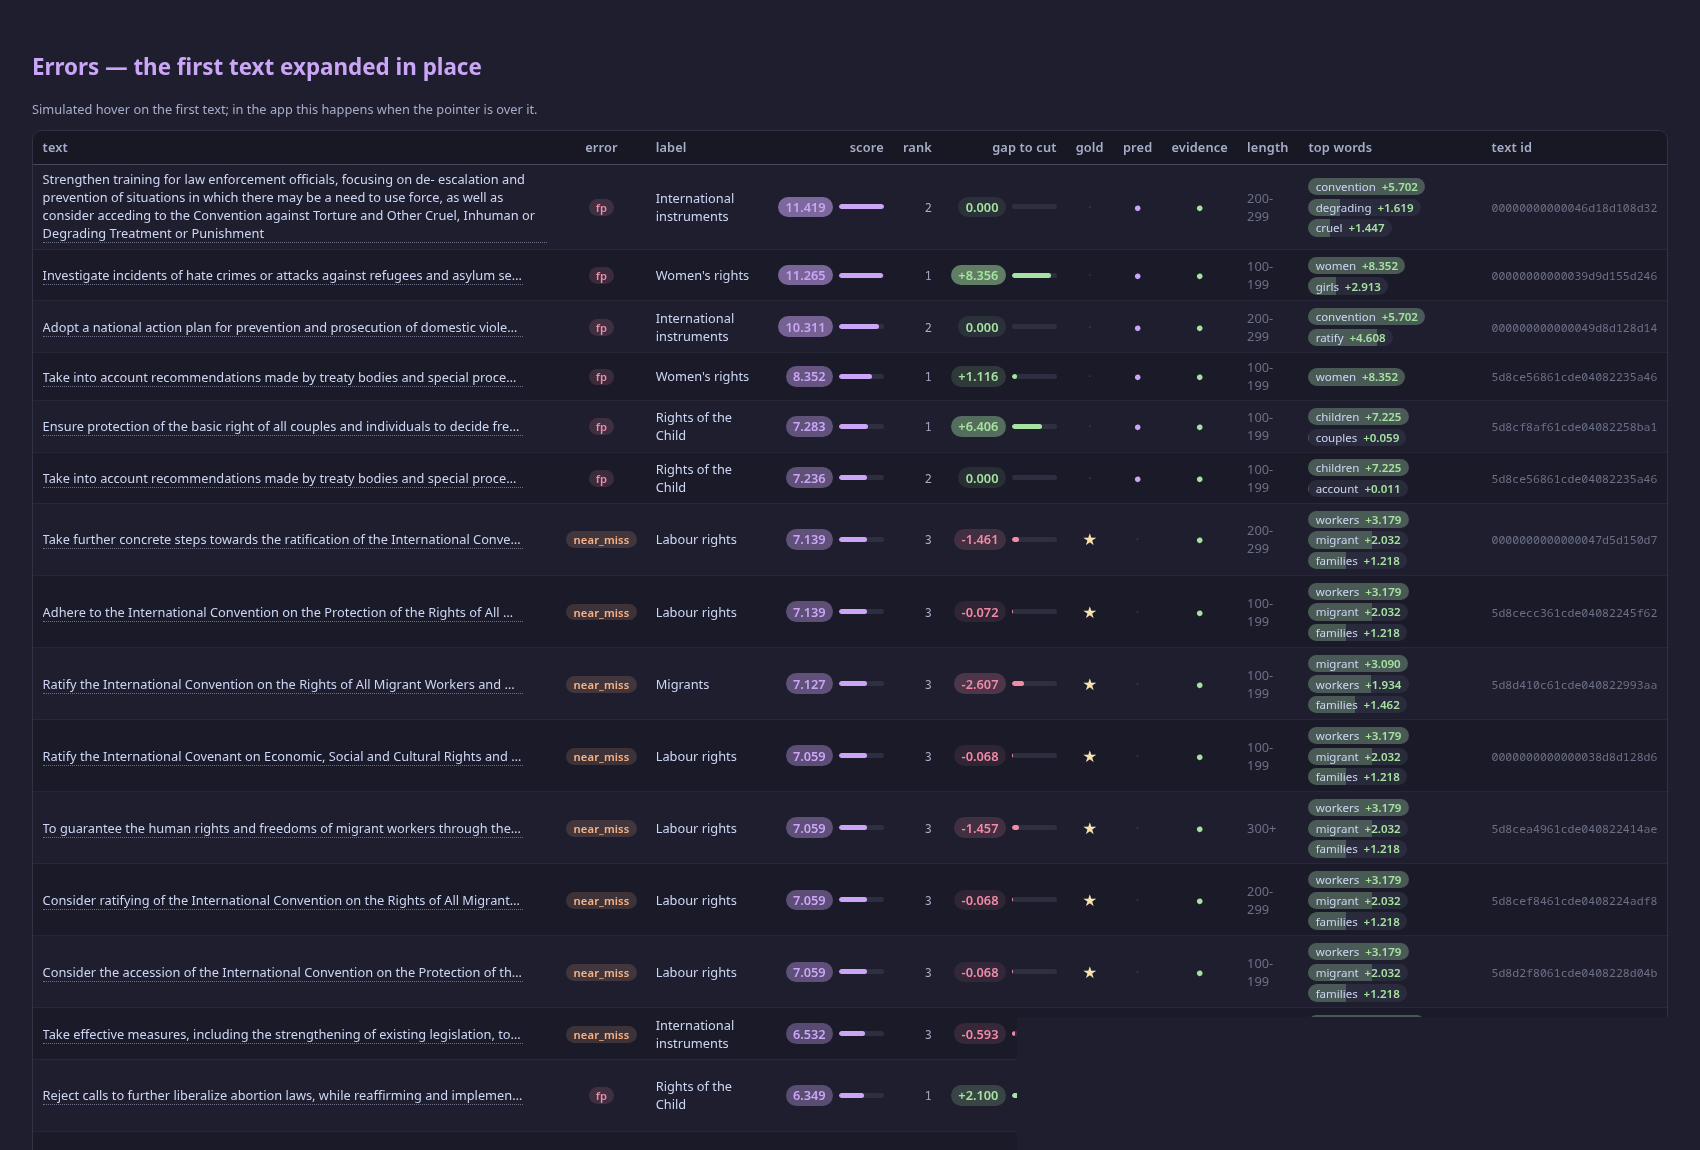
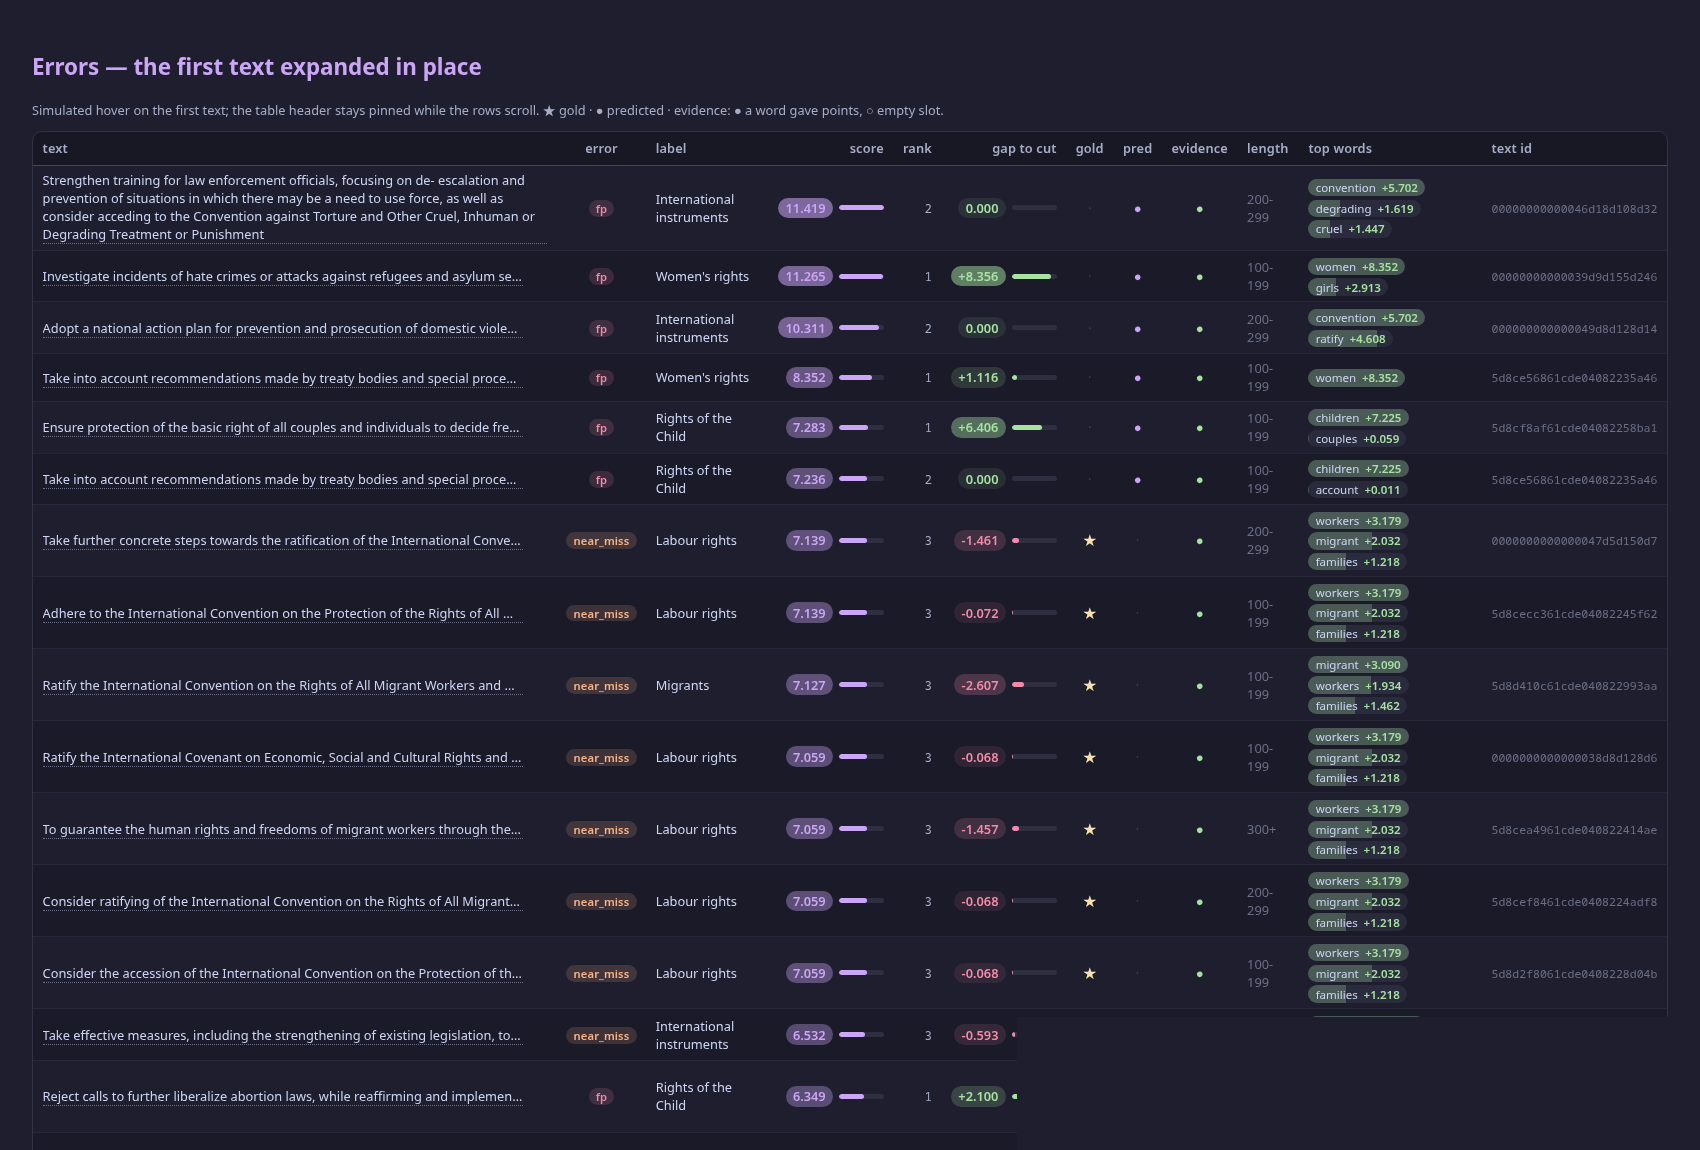
Feat: sticky headers in the error viewer's tables

diff --git a/tools/error_app.css b/tools/error_app.css
@@ -31,9 +31,12 @@ h1, h2 { color: var(--ctp-mauve); }
 a { color: var(--ctp-blue); }
 [data-testid="stDataFrame"] { font-variant-numeric: tabular-nums; }
 /* read-only diagnostic tables: no checkbox-looking cells */
-.ev-table-wrap { overflow-x: auto; border: 1px solid var(--ctp-surface0); border-radius: 0.6rem; margin: 0.35rem 0 0.8rem; }
+.ev-table-wrap { overflow: auto; max-height: 72vh; border: 1px solid var(--ctp-surface0); border-radius: 0.6rem; margin: 0.35rem 0 0.8rem; scrollbar-width: thin; scrollbar-color: var(--ctp-surface1) var(--ctp-crust); }
+.ev-table-wrap::-webkit-scrollbar { width: 8px; height: 8px; }
+.ev-table-wrap::-webkit-scrollbar-thumb { background: var(--ctp-surface1); border-radius: 999px; }
+.ev-table-wrap::-webkit-scrollbar-track { background: var(--ctp-crust); }
 .ev-table { width: 100%; border-collapse: collapse; font-size: 0.8rem; font-variant-numeric: tabular-nums; }
-.ev-table thead th { position: sticky; top: 0; z-index: 1; background: var(--ctp-mantle); color: var(--ctp-subtext0); font-weight: 600; letter-spacing: 0.01em; padding: 0.45rem 0.6rem; border-bottom: 1px solid var(--ctp-surface1); white-space: nowrap; }
+.ev-table thead th { position: sticky; top: 0; z-index: 2; background: var(--ctp-mantle); color: var(--ctp-subtext0); font-weight: 600; letter-spacing: 0.01em; padding: 0.45rem 0.6rem; border-bottom: 1px solid var(--ctp-surface1); white-space: nowrap; box-shadow: 0 1px 0 var(--ctp-surface1); }
 .ev-table tbody td { padding: 0.36rem 0.6rem; border-bottom: 1px solid rgba(49, 50, 68, 0.55); vertical-align: middle; }
 .ev-table tbody tr:nth-child(even) { background: rgba(24, 24, 37, 0.55); }
 .ev-table tbody tr:hover { background: rgba(49, 50, 68, 0.55); }

diff --git a/tests/test_error_app.py b/tests/test_error_app.py
@@ -96,6 +96,8 @@ def test_the_errors_view_lists_a_mistake(fixture: Any, monkeypatch: pytest.Monke
     assert "title=" not in shown  # no tooltip attribute
     assert "ev-pill" in shown  # the contributing words
     assert "ev-dot" in shown  # the booleans
+    captions = " ".join(str(element.value) for element in app.caption)
+    assert "scroll inside the table" in captions
 
 
 def test_the_one_text_view_shows_the_matrix(fixture: Any, monkeypatch: pytest.MonkeyPatch) -> None:
@@ -247,3 +249,7 @@ def test_the_stylesheet_carries_the_table_look() -> None:
     assert ".ev-dot" in css
     assert ".ev-text:hover" in css
     assert "white-space: normal" in css
+    # the table scrolls inside its own frame, so the header can stay pinned
+    assert "max-height: 72vh" in css
+    assert "position: sticky" in css
+    assert "z-index: 2" in css

diff --git a/tools/error_app.py b/tools/error_app.py
@@ -452,8 +452,8 @@ def errors_view(
         unsafe_allow_html=True,
     )
     st.caption(
-        "Hover a text to expand it in place. ★ gold · ● predicted · "
-        "evidence: ● a word gave points, ○ empty slot."
+        "Hover a text to expand it in place; scroll inside the table to keep the header pinned. "
+        "★ gold · ● predicted · evidence: ● a word gave points, ○ empty slot."
     )
     if not frame.empty:
         choices = list(dict.fromkeys(frame["text_id"]))

diff --git a/docs/error_viewer.md b/docs/error_viewer.md
@@ -280,8 +280,9 @@ pipeline. If a real discrepancy appears, it is reported, not fixed.
 The Errors view, rendered from the app's own HTML (UPR val, `k=2`). The text
 cell truncates and **expands in place** when hovered (no tooltip); the error
 badges, score/gap chips, boolean dots and contributing-word pills are
-read-only. The colour scheme is Catppuccin Mocha (`.streamlit/config.toml` and
-`tools/error_app.css`).
+read-only. The table frame scrolls (72 vh) with its **header row pinned**; the
+screenshot shows the whole table. The colour scheme is Catppuccin Mocha
+(`.streamlit/config.toml` and `tools/error_app.css`).
 
 ![The Errors view](error_viewer_errors.png)
 
